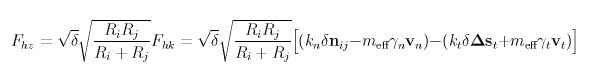
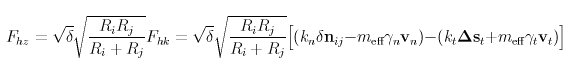
git-svn-id: svn://svn.icms.temple.edu/lammps-ro/trunk@2354 f3b2605a-c512-4ea7-a41b-209d697bcdaa

Changed region(s): [[0.0, 0.2192, 1.0, 0.7945], [0.5044, 0.3288, 0.534, 0.3562]]

diff --git a/doc/pair_gran.html b/doc/pair_gran.html
@@ -17,21 +17,35 @@
 </H3>
 <P><B>Syntax:</B>
 </P>
-<PRE>pair_style style Kn gamma_n xmu dampflag 
+<PRE>pair_style style Kn Kt gamma_n gamma_t xmu dampflag 
 </PRE>
 <UL><LI>style = <I>gran/hooke</I> or <I>gran/hooke/history</I> or <I>gran/hertz/history</I> 
 
-<LI>Kn = spring constant for particle repulsion (see units below) 
+<LI>Kn = elastic constant for normal particle repulsion (force/distance units or pressure units - see discussion below) 
 
-<LI>gamma_n = damping coefficient for collisions in normal direction (see units below) 
+<LI>Kt = elastic constant for tangential contact (force/distance units or pressure units - see discussion below) 
+
+<LI>gamma_n = damping coefficient for collisions in normal direction (1/time units or 1/time-distance units - see discussion below) 
+
+<LI>gamma_t = damping coefficient for collisions in tangential direction (1/time units or 1/time-distance units - see discussion below) 
 
 <LI>xmu = static yield criterion (unitless fraction between 0.0 and 1.0) 
 
 <LI>dampflag = 0 or 1 if tangential damping force is excluded or included 
 </UL>
+<P>IMPORTANT NOTE: Versions of LAMMPS before 9Jan09 had different style
+names for granular force fields.  This is to emphasize the fact that
+the Hertzian equation has changed to model polydispersity more
+accurately.  A side effect of the change is that the Kn, Kt, gamma_n,
+and gamma_t coefficients in the pair_style command must be specified
+with different values in order to reproduce calculations made with
+earlier versions of LAMMPS, even for monodisperse systems.  See the
+NOTE below for details.
+</P>
 <P><B>Examples:</B>
 </P>
-<PRE>pair_style gran/history 200000.0 50.0 0.5 1 
+<PRE>pair_style gran/hooke/history 200000.0 NULL 50.0 NULL 0.5 1
+pair_style gran/hooke 200000.0 70000.0 50.0 30.0 0.5 0 
 </PRE>
 <P><B>Description:</B>
 </P>
@@ -65,51 +79,67 @@ if <I>dampflag</I> is set to 0.
 </P>
 <UL><LI>delta = d - r = overlap distance of 2 particles
 <LI>Kn = elastic constant for normal contact
-<LI>Kt = elastic constant for tangential contact = 2/7 of Kn
+<LI>Kt = elastic constant for tangential contact
 <LI>gamma_n = viscoelastic damping constant for normal contact
-<LI>gamma_t = viscoelastic damping constant for tangential contact = 1/2 of gamma_n
+<LI>gamma_t = viscoelastic damping constant for tangential contact
 <LI>m_eff = Mi Mj / (Mi + Mj) = effective mass of 2 particles of mass Mi and Mj
 <LI>Delta St = tangential displacement vector between 2 spherical particles       which is truncated to satisfy a frictional yield criterion
 <LI>n_ij = unit vector along the line connecting the centers of the 2 particles
 <LI>Vn = normal component of the relative velocity of the 2 particles
 <LI>Vt = tangential component of the relative velocity of the 2 particles 
 </UL>
-<P>The Kn and gamma_n coefficients are specified as parameters to the
-pair_style command.  The interpretation and units for these
-coefficients are different in the Hookean versus Hertzian formulas.
+<P>The Kn, Kt, gamma_n, and gamma_t coefficients are specified as
+parameters to the pair_style command.  If a NULL is used for Kt, then
+a default value is used where Kt = 2/7 Kn.  If a NULL is used for
+gamma_t, then a default value is used where gamma_t = 1/2 gamma_n.
+</P>
+<P>The interpretation and units for these 4 coefficients are different in
+the Hookean versus Hertzian equations.
 </P>
 <P>The Hookean model is one where the normal push-back force for two
 overlapping particles is a linear function of the overlap distance.
 Thus the specified Kn is in units of (force/distance).  Note that this
 push-back force is independent of absolute particle size (in the
-monodisperse case) or the relative sizes of the two particles (in the
-polydisperse case).  This model also applies to the other terms in the
-force equation so that the specified gamma_n is in units of (1/time),
-Kt is in units of (force/distance), and gamma_t is in units of
-(1/time).
+monodisperse case) and of the relative sizes of the two particles (in
+the polydisperse case).  This model also applies to the other terms in
+the force equation so that the specified gamma_n is in units of
+(1/time), Kt is in units of (force/distance), and gamma_t is in units
+of (1/time).
 </P>
 <P>The Hertzian model is one where the normal push-back force for two
 overlapping particles is proportional to the area of overlap of the
 two particles, and is thus a non-linear function of overlap distance.
-Thus the specified Kn is in units of (force/area).  The effects of
-absolute particle size (monodispersity) and relative size
-(polydispersity) are captured in the radii-dependent pre-factors.
-When these pre-factors are carried through to the other terms in the
-force equation it means that the specified gamma_n is in units of
-(1/time-distance), Kt is in units of (force/area), and gamma_t is in
-units of (1/time-distance).
+Thus Kn has units of force per area and is thus specified in units of
+(pressure).  The effects of absolute particle size (monodispersity)
+and relative size (polydispersity) are captured in the radii-dependent
+pre-factors.  When these pre-factors are carried through to the other
+terms in the force equation it means that the specified gamma_n is in
+units of (1/(time*distance)), Kt is in units of (pressure), and
+gamma_t is in units of (1/(time*distance)).
 </P>
-<P>Note that in the Hookean case, Kn can be thought of as a spring
+<P>Note that in the Hookean case, Kn can be thought of as a linear spring
 constant with units of force/distance.  In the Hertzian case, Kn is
-like a non-linear spring constant with units of force/area, and as
-shown in the <A HREF = "#Zhang">(Zhang)</A> paper, Kn = 4G / (3(1-nu)) where nu =
-the Poisson ratio, G = shear modulus = E / (1(1+nu)), and E = Young's
-modulus.  Thus in the Hertzian case Kn can be set to a value that
+like a non-linear spring constant with units of force/area or
+pressure, and as shown in the <A HREF = "#Zhang">(Zhang)</A> paper, Kn = 4G /
+(3(1-nu)) where nu = the Poisson ratio, G = shear modulus = E /
+(1(1+nu)), and E = Young's modulus.  Similarly, Kt = 8G / (2-nu).
+Thus in the Hertzian case Kn and Kt can be set to values that
 corresponds to properties of the material being modeled.  This is also
 true in the Hookean case, except that a spring constant must be chosen
-that is appropriate for the size of particles in the model.  Since
-relative particle sizes are not accounted for, the Hookean styles may
-not be a suitable model for polydisperse systems.
+that is appropriate for the absolute size of particles in the model.
+Since relative particle sizes are not accounted for, the Hookean
+styles may not be a suitable model for polydisperse systems.
+</P>
+<P>IMPORTANT NOTE: In versions of LAMMPS before 9Jan09, the equation for
+Hertzian interactions did not include the sqrt(RiRj/Ri+Rj) term and
+thus was not as accurate for polydisperse systems.  For monodisperse
+systems, sqrt(RiRj/Ri+Rj) is a constant factor that effectively scales
+all 4 coefficients: Kn, Kt, gamma_n, gamma_t.  Thus you can set the
+values of these 4 coefficients appropriately in the current code to
+reproduce the results of a previous Hertzian monodisperse calculation.
+For example, for the common case of a monodisperse system with
+particles of diameter 1, all 4 of these coefficients should now be set
+2x larger than they were previously.
 </P>
 <P>Xmu is also specified in the pair_style command and is the upper limit
 of the tangential force through the Coulomb criterion Ft = xmu*Fn,

diff --git a/doc/fix_wall_gran.html b/doc/fix_wall_gran.html
@@ -13,26 +13,33 @@
 </H3>
 <P><B>Syntax:</B>
 </P>
-<PRE>fix ID group-ID wall/gran wallstyle args keyword values ... 
+<PRE>fix ID group-ID wall/gran Kn Kt gamma_n gamma_t xmu dampflag wallstyle args keyword values ... 
 </PRE>
 <UL><LI>ID, group-ID are documented in <A HREF = "fix.html">fix</A> command 
 
 <LI>wall/gran = style name of this fix command 
 
-<LI>style = <I>xplane</I> or <I>yplane</I> or <I>zplane</I> or <I>zcylinder</I> 
+<LI>Kn = elastic constant for normal particle repulsion (force/distance units or pressure units - see discussion below) 
+
+<LI>Kt = elastic constant for tangential contact (force/distance units or pressure units - see discussion below) 
+
+<LI>gamma_n = damping coefficient for collisions in normal direction (1/time units or 1/time-distance units - see discussion below) 
+
+<LI>gamma_t = damping coefficient for collisions in tangential direction (1/time units or 1/time-distance units - see discussion below) 
+
+<LI>xmu = static yield criterion (unitless fraction between 0.0 and 1.0) 
+
+<LI>dampflag = 0 or 1 if tangential damping force is excluded or included 
+
+<LI>wallstyle = <I>xplane</I> or <I>yplane</I> or <I>zplane</I> or <I>zcylinder</I> 
 
 <LI>args = list of arguments for a particular style 
 
-<PRE>  <I>xplane</I> or <I>yplane</I> or <I>zplane</I> args = lo hi gamma xmu
+<LI>  <I>xplane</I> or <I>yplane</I> or <I>zplane</I> args = lo hi
     lo,hi = position of lower and upper plane (distance units), either can be NULL)
-    gamman = damping coeff for normal direction collisions with wall
-    xmu = friction coeff for the wall
-  <I>zcylinder</I> args = radius gamma xmu
+  <I>zcylinder</I> args = radius
     radius = cylinder radius (distance units)
-    gamman = damping coeff for normal direction collisions with wall
-    xmu = friction coeff for the wall 
-</PRE>
-<LI>zero or more keyword/value pairs may be appended to args 
+zero or more keyword/value pairs may be appended to args 
 
 <LI>keyword = <I>wiggle</I> or <I>shear</I> 
 
@@ -48,9 +55,9 @@
 </UL>
 <P><B>Examples:</B>
 </P>
-<PRE>fix 1 all wall/gran xplane -10.0 10.0 50.0 0.5
-fix 2 all wall/gran zcylinder 15.0 50.0 0.5 wiggle z 3.0 2.0
-fix 1 all wall/gran zplane 0.0 NULL 100.0 0.5 
+<PRE>fix 1 all wall/gran 200000.0 NULL 50.0 NULL 0.5 0 xplane -10.0 10.0 
+fix 1 all wall/gran 200000.0 NULL 50.0 NULL 0.5 0 zplane 0.0 NULL 
+fix 2 all wall/gran 100000.0 20000.0 50.0 30.0 0.5 1 zcylinder 15.0 wiggle z 3.0 2.0 
 </PRE>
 <P><B>Description:</B>
 </P>
@@ -58,13 +65,48 @@ fix 1 all wall/gran zplane 0.0 NULL 100.0 0.5
 wall.  All particles in the group interact with the wall when they are
 close enough to touch it.
 </P>
+<P>The first set of parameters (Kn, Kt, gamma_n, gamma_t, xmu, and
+dampflag) have the same meaning as those specified with the
+<A HREF = "pair_gran.html">pair_style granular</A> force fields.  This means a NULL
+can be used for either Kt or gamma_t as described on that page.  If a
+NULL is used for Kt, then a default value is used where Kt = 2/7 Kn.
+If a NULL is used for gamma_t, then a default value is used where
+gamma_t = 1/2 gamma_n.
+</P>
+<P>The nature of the wall/particle interactions are determined by which
+pair_style is used in your input script: <I>hooke</I>, <I>hooke/history</I>, or
+<I>hertz/history</I>.  The equation for the force between the wall and
+particles touching it is the same as the corresponding equation on the
+<A HREF = "pair_gran.html">pair_style granular</A> doc page, in the limit of one of
+the two particles going to infinite radius and mass (flat wall).
+I.e. delta = radius - r = overlap of particle with wall, m_eff = mass
+of particle, and sqrt(RiRj/Ri+Rj) becomes sqrt(radius of particle).
+The units for Kn, Kt, gamma_n, and gamma_t are as described on that
+doc page.  The meaning of xmu and dampflag are also as described on
+that page.  Note that you can choose different values for these 6
+wall/particle coefficients than for particle/particle interactions, if
+you wish your wall to interact differently with the particles, e.g. if
+the wall is a different material.
+</P>
+<P>IMPORTANT NOTE: As discussed on the doc page for <A HREF = "pair_gran.html">pair_style
+granular</A>, versions of LAMMPS before 9Jan09 used a
+different equation for Hertzian interactions.  This means Hertizian
+wall/particle interactions have also changed.  They now include a
+sqrt(radius) term which was not present before.  Also the previous
+versions used Kn and Kt from the pairwise interaction and hardwired
+dampflag to 1, rather than letting them be specified directly.  This
+means you can set the values of the wall/particle coefficients
+appropriately in the current code to reproduce the results of a
+prevoius Hertzian monodisperse calculation.  For example, for the
+common case of a monodisperse system with particles of diameter 1, Kn,
+Kt, gamma_n, and gamma_s should be set sqrt(2.0) larger than they were
+previously.
+</P>
 <P>The <I>wallstyle</I> can be planar or cylindrical.  The 3 planar options
 specify a pair of walls in a dimension.  Wall positions are given by
 <I>lo</I> and <I>hi</I>.  Either of the values can be specified as NULL if a
 single wall is desired.  For a <I>zcylinder</I> wallstyle, the cylinder's
 axis is at x = y = 0.0, and the radius of the cylinder is specified.
-For all wallstyles, a damping and friction coefficient for
-particle-wall interactions are also specified.
 </P>
 <P>Optionally, the wall can be moving, if the <I>wiggle</I> or <I>shear</I>
 keywords are appended.  Both keywords cannot be used together.
@@ -126,7 +168,7 @@ LAMMPS</A> section for more info.
 </P>
 <P><B>Related commands:</B>
 </P>
-<P><A HREF = "fix_wiggle.html">fix_wiggle</A>
+<P><A HREF = "fix_wiggle.html<A HREF = "pair_gran.html">>fix_wiggle</A>, pair_style granular</A>
 </P>
 <P><B>Default:</B> none
 </P>

diff --git a/doc/Section_commands.html b/doc/Section_commands.html
@@ -366,7 +366,7 @@ full description:
 <TR ALIGN="center"><TD ><A HREF = "pair_coul.html">coul/cut</A></TD><TD ><A HREF = "pair_coul.html">coul/debye</A></TD><TD ><A HREF = "pair_coul.html">coul/long</A></TD><TD ><A HREF = "pair_dipole.html">dipole/cut</A></TD></TR>
 <TR ALIGN="center"><TD ><A HREF = "pair_dpd.html">dpd</A></TD><TD ><A HREF = "pair_eam.html">eam</A></TD><TD ><A HREF = "pair_eam.html">eam/opt</A></TD><TD ><A HREF = "pair_eam.html">eam/alloy</A></TD></TR>
 <TR ALIGN="center"><TD ><A HREF = "pair_eam.html">eam/alloy/opt</A></TD><TD ><A HREF = "pair_eam.html">eam/fs</A></TD><TD ><A HREF = "pair_eam.html">eam/fs/opt</A></TD><TD ><A HREF = "pair_gayberne.html">gayberne</A></TD></TR>
-<TR ALIGN="center"><TD ><A HREF = "pair_gran.html">gran/hertzian</A></TD><TD ><A HREF = "pair_gran.html">gran/history</A></TD><TD ><A HREF = "pair_gran.html">gran/no_history</A></TD><TD ><A HREF = "pair_charmm.html">lj/charmm/coul/charmm</A></TD></TR>
+<TR ALIGN="center"><TD ><A HREF = "pair_gran_hertz_history.html">gran/hertz/history</A></TD><TD ><A HREF = "pair_gran_hooke.html">gran/hooke</A></TD><TD ><A HREF = "pair_gran_hooke_history.html">gran/hooke/history</A></TD><TD ><A HREF = "pair_charmm.html">lj/charmm/coul/charmm</A></TD></TR>
 <TR ALIGN="center"><TD ><A HREF = "pair_charmm.html">lj/charmm/coul/charmm/implicit</A></TD><TD ><A HREF = "pair_charmm.html">lj/charmm/coul/long</A></TD><TD ><A HREF = "pair_charmm.html">lj/charmm/coul/long/opt</A></TD><TD ><A HREF = "pair_class2.html">lj/class2</A></TD></TR>
 <TR ALIGN="center"><TD ><A HREF = "pair_class2.html">lj/class2/coul/cut</A></TD><TD ><A HREF = "pair_class2.html">lj/class2/coul/long</A></TD><TD ><A HREF = "pair_lj.html">lj/cut</A></TD><TD ><A HREF = "pair_lj.html">lj/cut/opt</A></TD></TR>
 <TR ALIGN="center"><TD ><A HREF = "pair_lj.html">lj/cut/coul/cut</A></TD><TD ><A HREF = "pair_lj.html">lj/cut/coul/debye</A></TD><TD ><A HREF = "pair_lj.html">lj/cut/coul/long</A></TD><TD ><A HREF = "pair_lj.html">lj/cut/coul/long/tip4p</A></TD></TR>

diff --git a/doc/region.html b/doc/region.html
@@ -59,7 +59,7 @@
 </P>
 <PRE>region 1 block -3.0 5.0 INF 10.0 INF INF
 region 2 sphere 0.0 0.0 0.0 5 side out
-region void cylinder y 2 3 5 -5.0 INF units box
+region void cylinder y 2 3 5 -5.0 EDGE units box
 region 1 prism 0 10 0 10 0 10 2 0 0
 region outside union 4 side1 side2 side3 side4 
 </PRE>

diff --git a/doc/Eqs/pair_gran_hertz.tex b/doc/Eqs/pair_gran_hertz.tex
@@ -7,7 +7,7 @@ $$
      \sqrt{\delta} \sqrt{\frac{R_i R_j}{R_i + R_j}} 
      \Big[ (k_n \delta \mathbf{n}_{ij} -  
        m_{\mbox{\scriptsize{eff}}} \: \gamma_n \mathbf{ v}_n) -
-       (k_t \delta\mathbf{ \Delta s}_t +
+       (k_t \mathbf{ \Delta s}_t +
        m_{\mbox{\scriptsize{eff}}} \: \gamma_t \mathbf{v}_t) \Big]
 $$
 

diff --git a/doc/Eqs/pair_gran_hooke.tex b/doc/Eqs/pair_gran_hooke.tex
@@ -5,7 +5,7 @@
 $$
    F_{hk} = (k_n \delta \mathbf{n}_{ij} -  
    m_{\mbox{\scriptsize{eff}}} \gamma_n\mathbf{ v}_n) - 
-   (k_t \delta\mathbf{ \Delta s}_t +
+   (k_t \mathbf{ \Delta s}_t +
    m_{\mbox{\scriptsize{eff}}} \gamma_t \mathbf{v}_t)
 $$
 